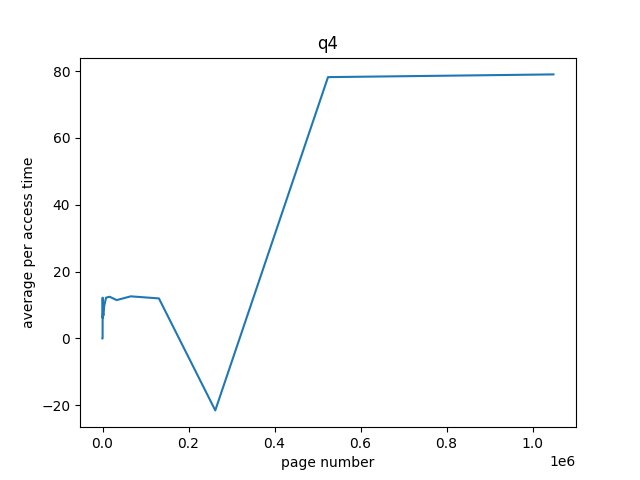
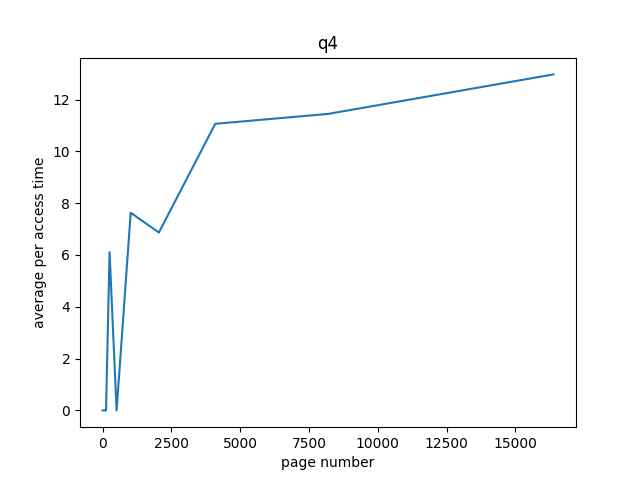
change pic

diff --git a/plot.py b/plot.py
@@ -7,7 +7,7 @@ x=[]
 y=[]
 
 page=1
-while page<=(1<<20):
+while page<=(1<<14):
     x.append(page)
     process = subprocess.run(['./tlb2.exe',str(page), '10000'], 
                         stdout=subprocess.PIPE, 
